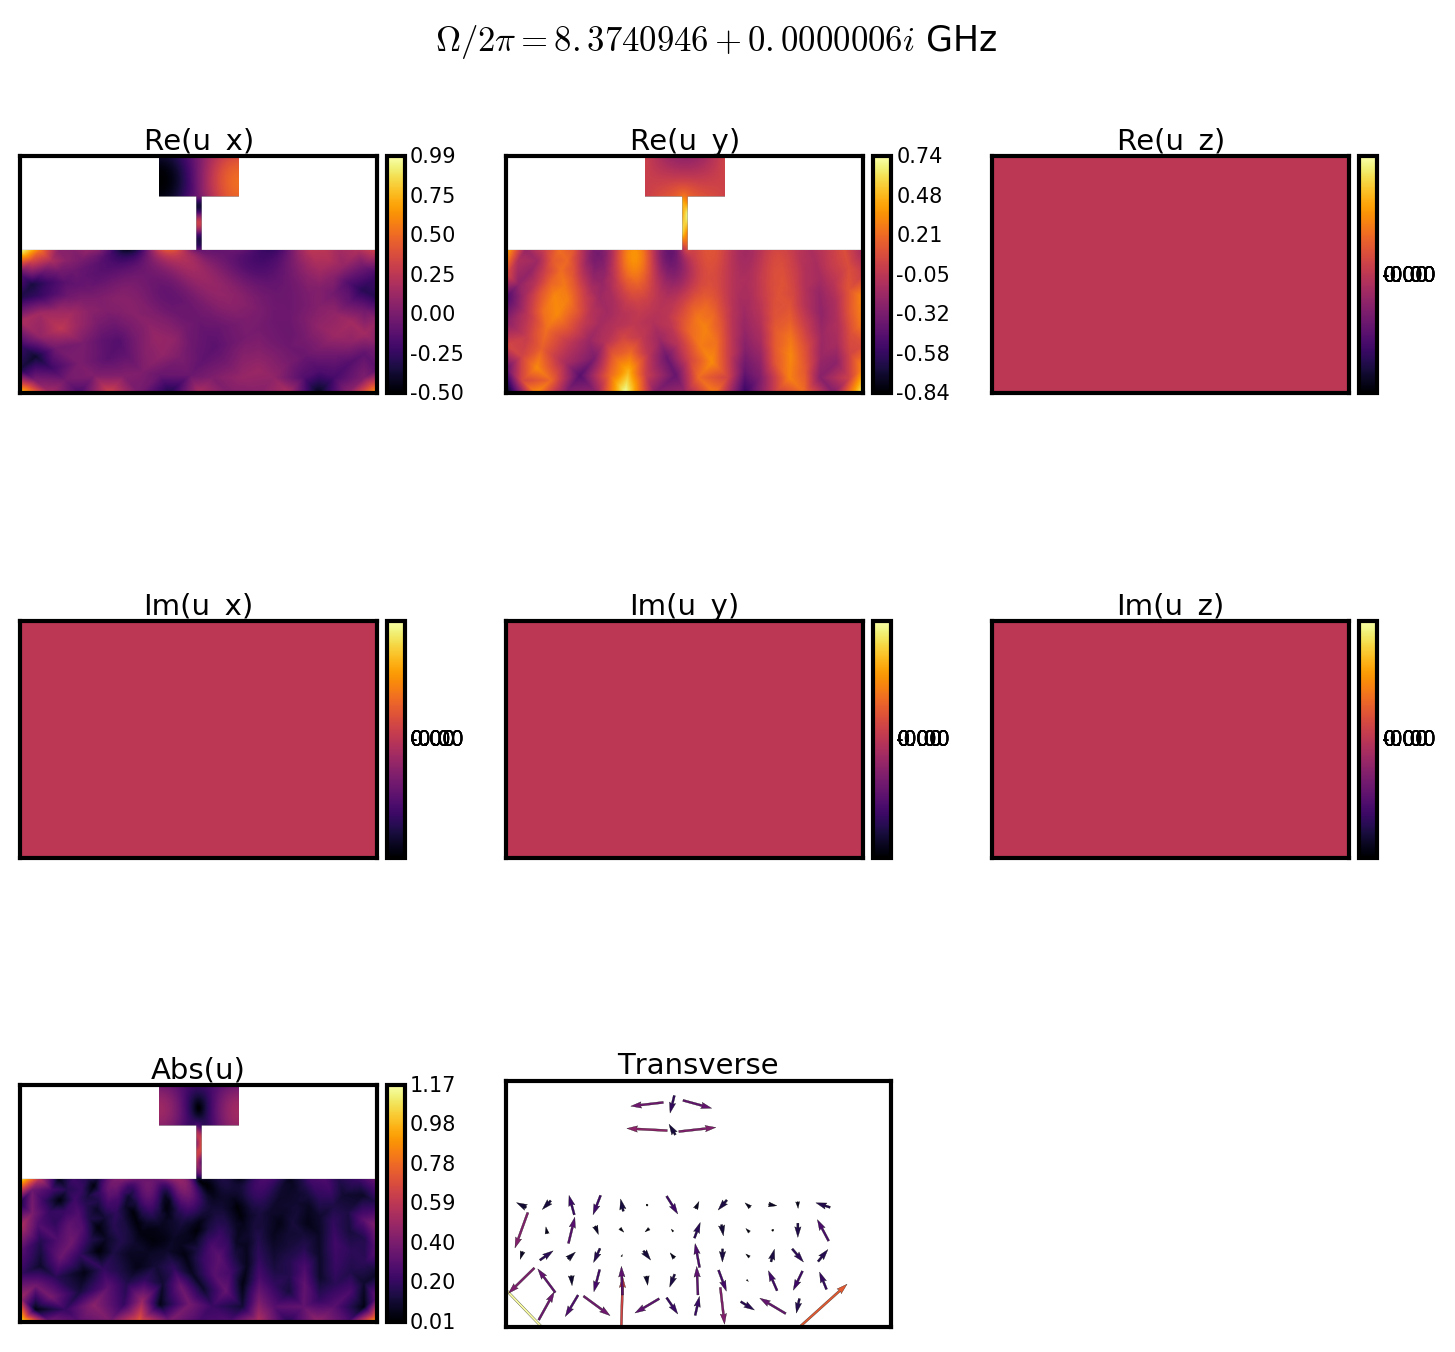
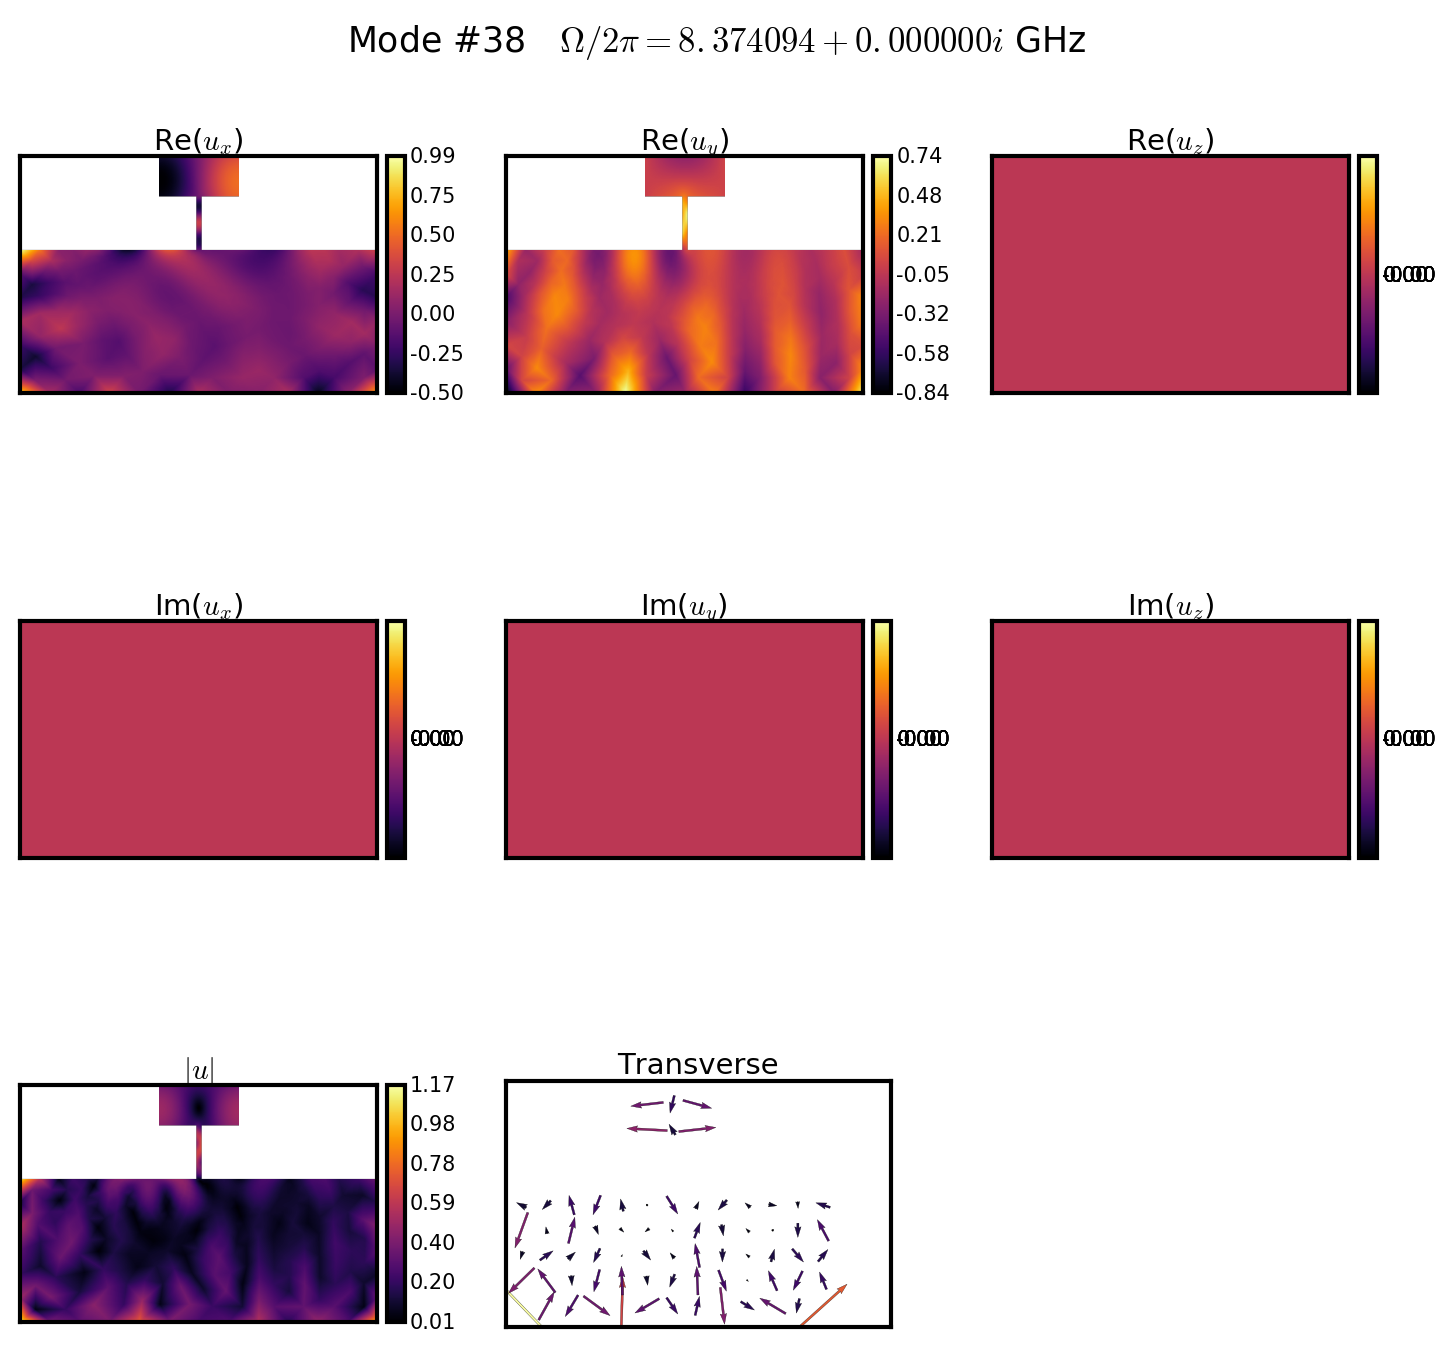
Rerun all examples with cleaned up k_z, n_eff prints in field plots.

diff --git a/backend/plotting.py b/backend/plotting.py
@@ -34,7 +34,7 @@ from matplotlib import ticker
 from fortran import NumBAT
 
 try: 
-    plt.style.use('NumBATstyle2')
+    plt.style.use('NumBATstyle')
 except (ValueError, IOError, AttributeError): print("Preferred matplotlib style file not found.")
 colors = [color['color'] for color in list(plt.rcParams['axes.prop_cycle'])]
 
@@ -527,26 +527,26 @@ def plt_mode_fields(sim_wguide, ivals=None, n_points=500, quiver_steps=50,
         if EM_AC=='EM_E' or EM_AC=='EM_H':
             n_eff = sim_wguide.Eig_values[ival] * sim_wguide.wl_m / (2*np.pi)
             if np.imag(sim_wguide.Eig_values[ival]) < 0:
-                k_str = r'$k_z = %(re_k)f6 %(im_k)f6 i$'% \
+                k_str = r'$k_z = %(re_k)f %(im_k)f i$'% \
                     {'re_k' : np.real(sim_wguide.Eig_values[ival]),
                     'im_k' : np.imag(sim_wguide.Eig_values[ival])}
-                n_str = r'$n_{eff} = %(re_k)f6 %(im_k)f6 i$'% \
+                n_str = r'$n_{eff} = %(re_k)f %(im_k)f i$'% \
                     {'re_k' : np.real(n_eff), 'im_k' : np.imag(n_eff)}
             else:
-                k_str = r'$k_z = %(re_k)f6 + %(im_k)f6 i$'% \
+                k_str = r'$k_z = %(re_k)f + %(im_k)f i$'% \
                     {'re_k' : np.real(sim_wguide.Eig_values[ival]),
                     'im_k' : np.imag(sim_wguide.Eig_values[ival])}
-                n_str = r'$n_{eff} = %(re_k)f6 + %(im_k)f6 i$'% \
+                n_str = r'$n_{eff} = %(re_k)f + %(im_k)f i$'% \
                     {'re_k' : np.real(n_eff), 'im_k' : np.imag(n_eff)}
             # plt.text(10, 0.3, n_str, fontsize=title_font)
         else:
             n_str = ''
             if np.imag(sim_wguide.Eig_values[ival]) < 0:
-                k_str = r'$\Omega/2\pi = %(re_k)f6 %(im_k)f6 i$ GHz'% \
+                k_str = r'$\Omega/2\pi = %(re_k)f %(im_k)f i$ GHz'% \
                     {'re_k' : np.real(sim_wguide.Eig_values[ival]*1e-9),
                     'im_k' : np.imag(sim_wguide.Eig_values[ival]*1e-9)}
             else:
-                k_str = r'$\Omega/2\pi = %(re_k)f6 + %(im_k)f6 i$ GHz'% \
+                k_str = r'$\Omega/2\pi = %(re_k)f + %(im_k)f i$ GHz'% \
                     {'re_k' : np.real(sim_wguide.Eig_values[ival]*1e-9),
                     'im_k' : np.imag(sim_wguide.Eig_values[ival]*1e-9)}
         # plt.text(10, 0.5, k_str, fontsize=title_font)
@@ -655,11 +655,11 @@ def plt_mode_fields(sim_wguide, ivals=None, n_points=500, quiver_steps=50,
             fig.set_tight_layout(True)
             n_str = ''
             if np.imag(sim_wguide.Eig_values[ival]) < 0:
-                k_str = r'$\Omega/2\pi = %(re_k)f6 %(im_k)f6 i$ GHz'% \
+                k_str = r'$\Omega/2\pi = %(re_k)f %(im_k)f i$ GHz'% \
                     {'re_k' : np.real(sim_wguide.Eig_values[ival]*1e-9),
                     'im_k' : np.imag(sim_wguide.Eig_values[ival]*1e-9)}
             else:
-                k_str = r'$\Omega/2\pi = %(re_k)f6 + %(im_k)f6 i$ GHz'% \
+                k_str = r'$\Omega/2\pi = %(re_k)f + %(im_k)f i$ GHz'% \
                     {'re_k' : np.real(sim_wguide.Eig_values[ival]*1e-9),
                     'im_k' : np.imag(sim_wguide.Eig_values[ival]*1e-9)}
             plt.suptitle('Mode #' + str(ival) + '   ' + k_str + '   ' + n_str, fontsize=title_font)

diff --git a/lit_examples/simo-lit_02-Laude-AIPAdv_2013-silicon.py b/lit_examples/simo-lit_02-Laude-AIPAdv_2013-silicon.py
@@ -58,9 +58,9 @@ n_eff = 3.4
 sim_EM_pump = wguide.calc_EM_modes(num_modes_EM_pump, wl_nm, n_eff=n_eff)
 sim_EM_Stokes = mode_calcs.bkwd_Stokes_modes(sim_EM_pump)
 
-# plotting.plt_mode_fields(sim_EM_pump, xlim_min=0.2, xlim_max=0.2, ivals=[0],
-#                          ylim_min=0.2, ylim_max=0.2, EM_AC='EM_E', 
-#                          prefix_str=prefix_str, pdf_png='png')
+plotting.plt_mode_fields(sim_EM_pump, xlim_min=0.2, xlim_max=0.2, ivals=[0],
+                         ylim_min=0.2, ylim_max=0.2, EM_AC='EM_E', 
+                         prefix_str=prefix_str, pdf_png='png')
 
 # Print the wavevectors of EM modes.
 print('k_z of EM modes \n', np.round(np.real(sim_EM_pump.Eig_values), 4))
@@ -76,7 +76,7 @@ shift_Hz = 31e9
 # Calculate Acoustic modes.
 sim_AC = wguide.calc_AC_modes(num_modes_AC, k_AC, EM_sim=sim_EM_pump, shift_Hz=shift_Hz)
 
-# plotting.plt_mode_fields(sim_AC, EM_AC='AC', prefix_str=prefix_str, pdf_png='png')
+plotting.plt_mode_fields(sim_AC, EM_AC='AC', prefix_str=prefix_str, pdf_png='png')
 
 # Print the frequencies of AC modes.
 print('Freq of AC modes (GHz) \n', np.round(np.real(sim_AC.Eig_values)*1e-9, 4))

diff --git a/lit_examples/simo-lit_01-Laude-AIPAdv_2013-silica.py b/lit_examples/simo-lit_01-Laude-AIPAdv_2013-silica.py
@@ -57,9 +57,9 @@ n_eff = 1.3
 sim_EM_pump = wguide.calc_EM_modes(num_modes_EM_pump, wl_nm, n_eff=n_eff)
 sim_EM_Stokes = mode_calcs.bkwd_Stokes_modes(sim_EM_pump)
 
-# plotting.plt_mode_fields(sim_EM_pump, xlim_min=0.4, xlim_max=0.4, ivals=[0],
-#                          ylim_min=0.4, ylim_max=0.4, EM_AC='EM_E', 
-#                          prefix_str=prefix_str, pdf_png='png')
+plotting.plt_mode_fields(sim_EM_pump, xlim_min=0.4, xlim_max=0.4, ivals=[0],
+                         ylim_min=0.4, ylim_max=0.4, EM_AC='EM_E', 
+                         prefix_str=prefix_str, pdf_png='png')
 
 # Print the wavevectors of EM modes.
 print('k_z of EM modes \n', np.round(np.real(sim_EM_pump.Eig_values), 4))
@@ -75,7 +75,7 @@ shift_Hz = 8e9
 # Calculate Acoustic modes.
 sim_AC = wguide.calc_AC_modes(num_modes_AC, k_AC, EM_sim=sim_EM_pump, shift_Hz=shift_Hz)
 
-# plotting.plt_mode_fields(sim_AC, EM_AC='AC', prefix_str=prefix_str, pdf_png='png')
+plotting.plt_mode_fields(sim_AC, EM_AC='AC', prefix_str=prefix_str, pdf_png='png')
 
 # Print the frequencies of AC modes.
 print('Freq of AC modes (GHz) \n', np.round(np.real(sim_AC.Eig_values)*1e-9, 4))

diff --git a/lit_examples/simo-lit_06_2-Florez-NatComm_2016-d1160nm.py b/lit_examples/simo-lit_06_2-Florez-NatComm_2016-d1160nm.py
@@ -53,9 +53,9 @@ n_eff = 1.4
 sim_EM_pump = wguide.calc_EM_modes(num_modes_EM_pump, wl_nm, n_eff=n_eff)
 sim_EM_Stokes = mode_calcs.bkwd_Stokes_modes(sim_EM_pump)
 
-# plotting.plt_mode_fields(sim_EM_pump, xlim_min=0.3, xlim_max=0.3, ivals=[0],
-#                          ylim_min=0.3, ylim_max=0.3, EM_AC='EM_E', 
-#                          prefix_str=prefix_str, pdf_png='png')
+plotting.plt_mode_fields(sim_EM_pump, xlim_min=0.3, xlim_max=0.3, ivals=[0],
+                         ylim_min=0.3, ylim_max=0.3, EM_AC='EM_E', 
+                         prefix_str=prefix_str, pdf_png='png')
 
 # Print the wavevectors of EM modes.
 print('k_z of EM modes \n', np.round(np.real(sim_EM_pump.Eig_values), 4))
@@ -71,7 +71,7 @@ shift_Hz = 4e9
 # Calculate Acoustic Modes
 sim_AC = wguide.calc_AC_modes(num_modes_AC, k_AC, EM_sim=sim_EM_pump, shift_Hz=shift_Hz)
 
-# plotting.plt_mode_fields(sim_AC, EM_AC='AC', prefix_str=prefix_str)
+plotting.plt_mode_fields(sim_AC, EM_AC='AC', prefix_str=prefix_str)
 
 # Print the frequencies of AC modes.
 print('Freq of AC modes (GHz) \n', np.round(np.real(sim_AC.Eig_values)*1e-9, 4))
